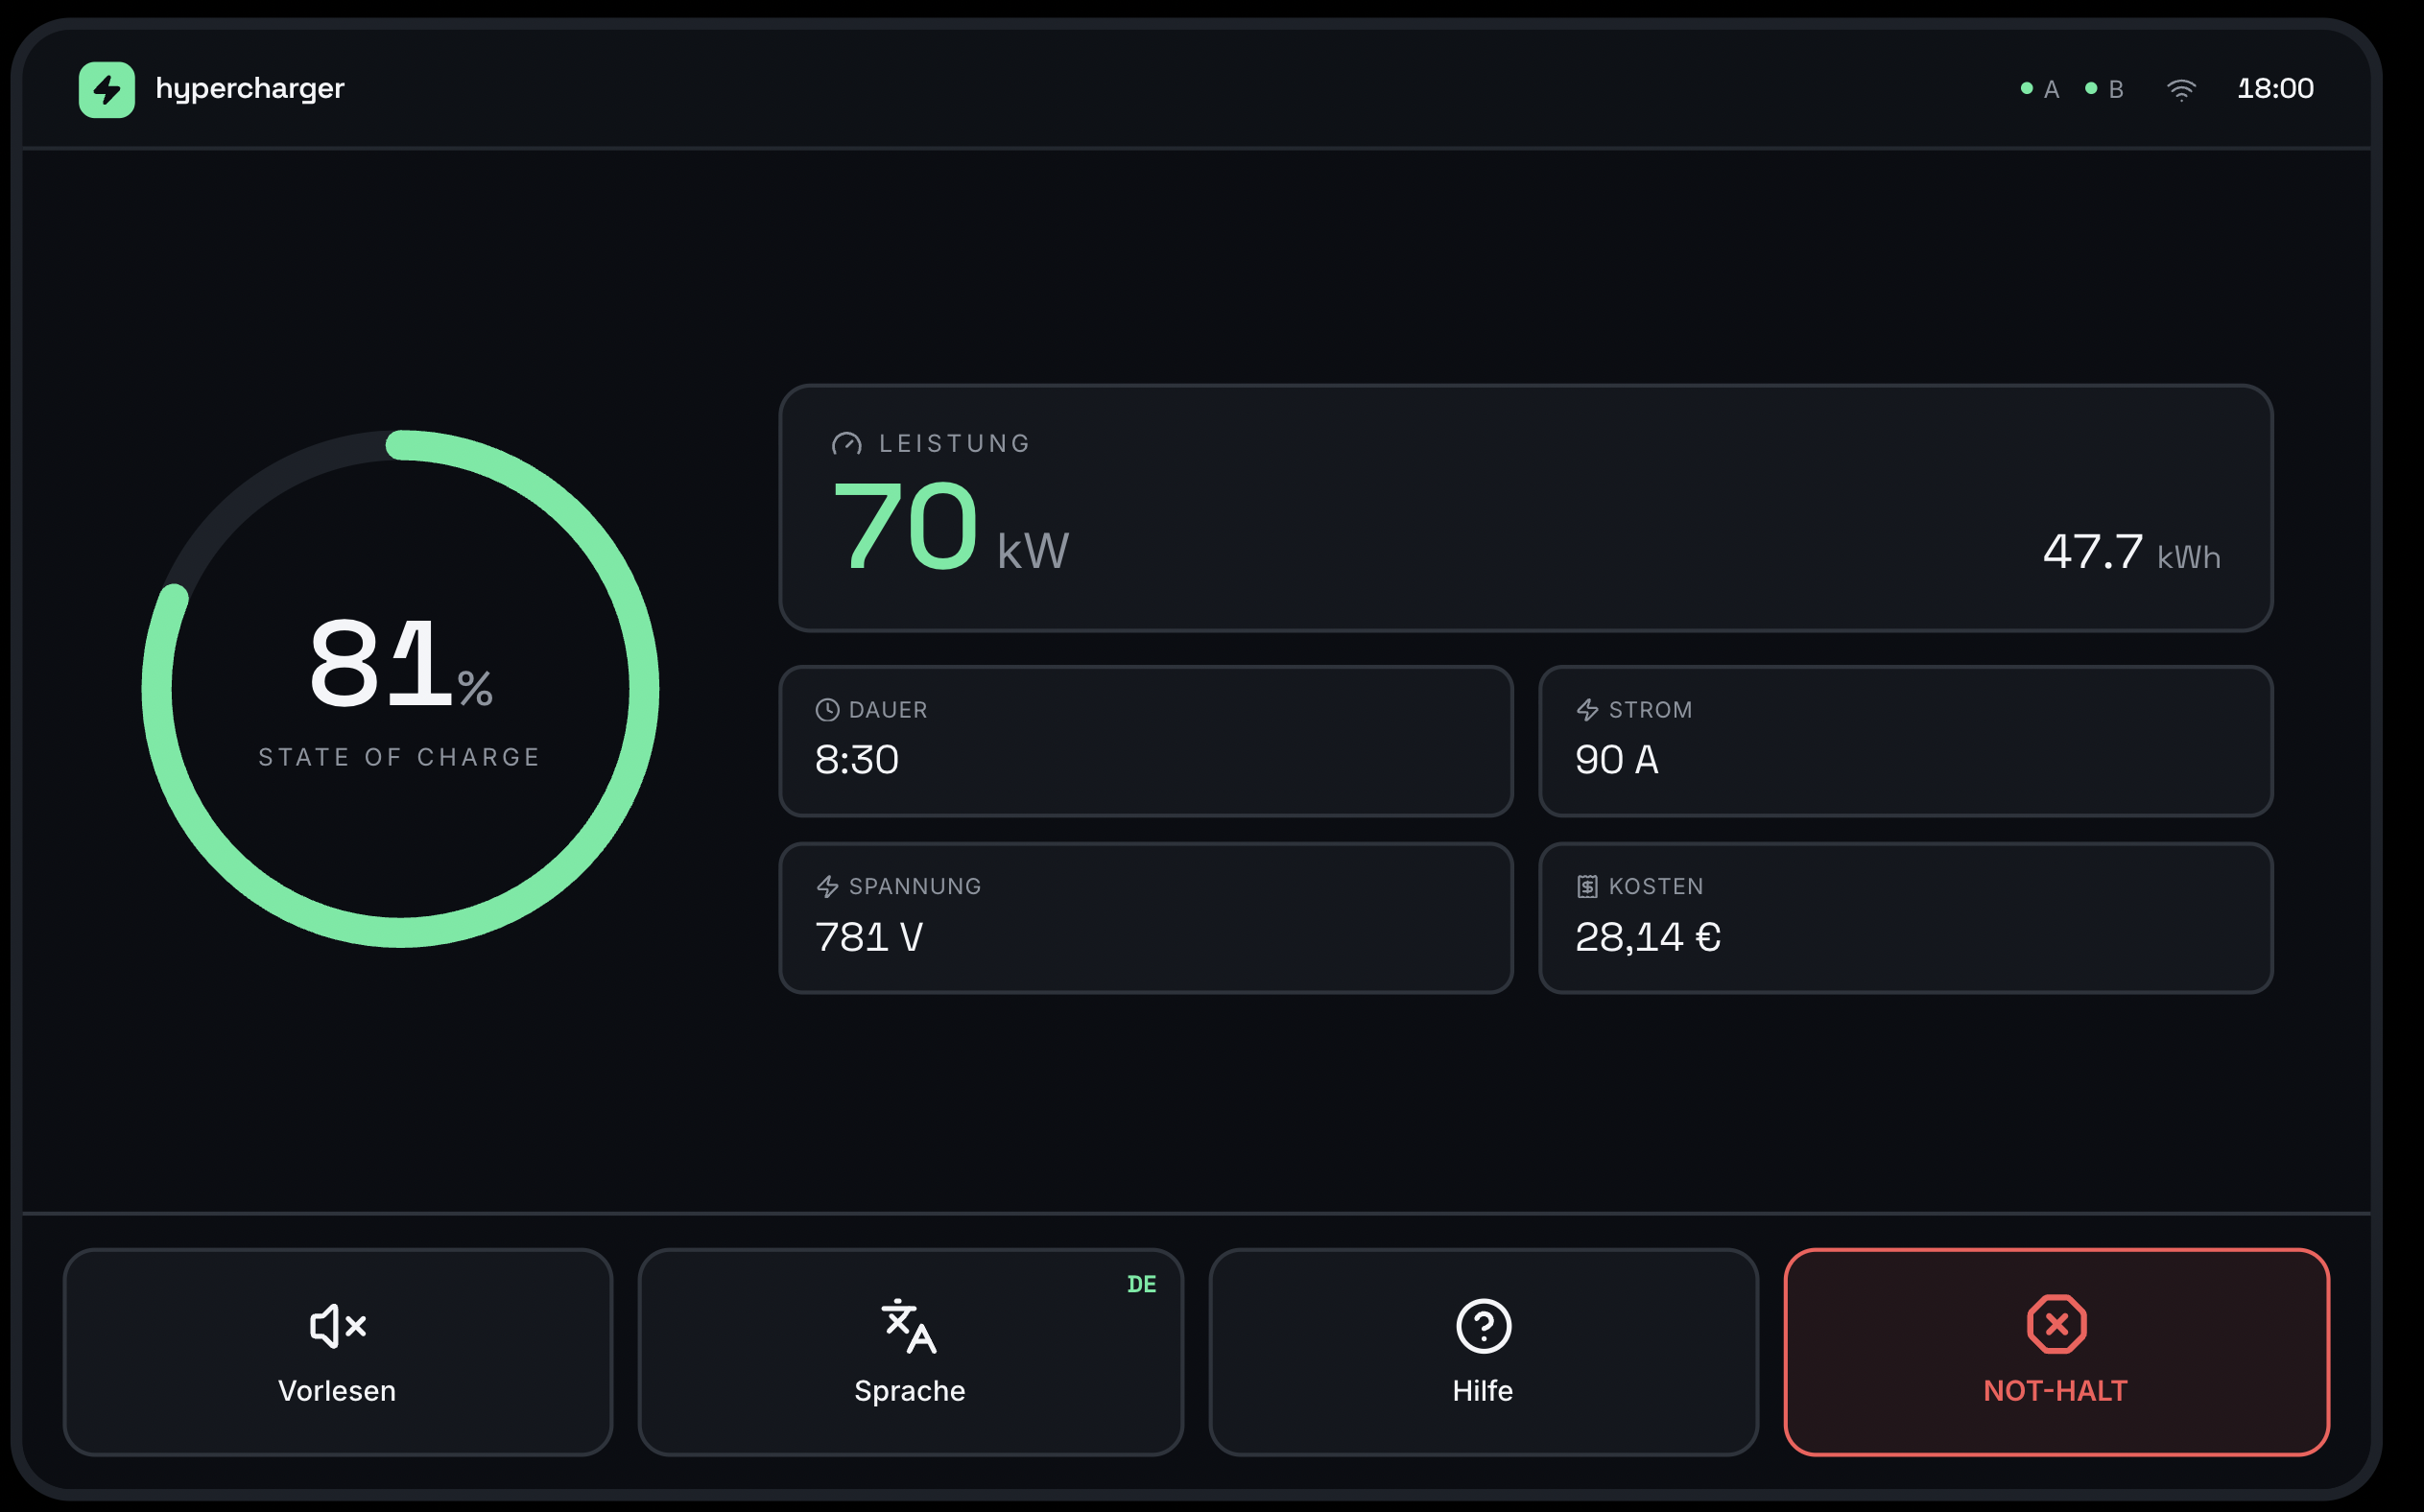
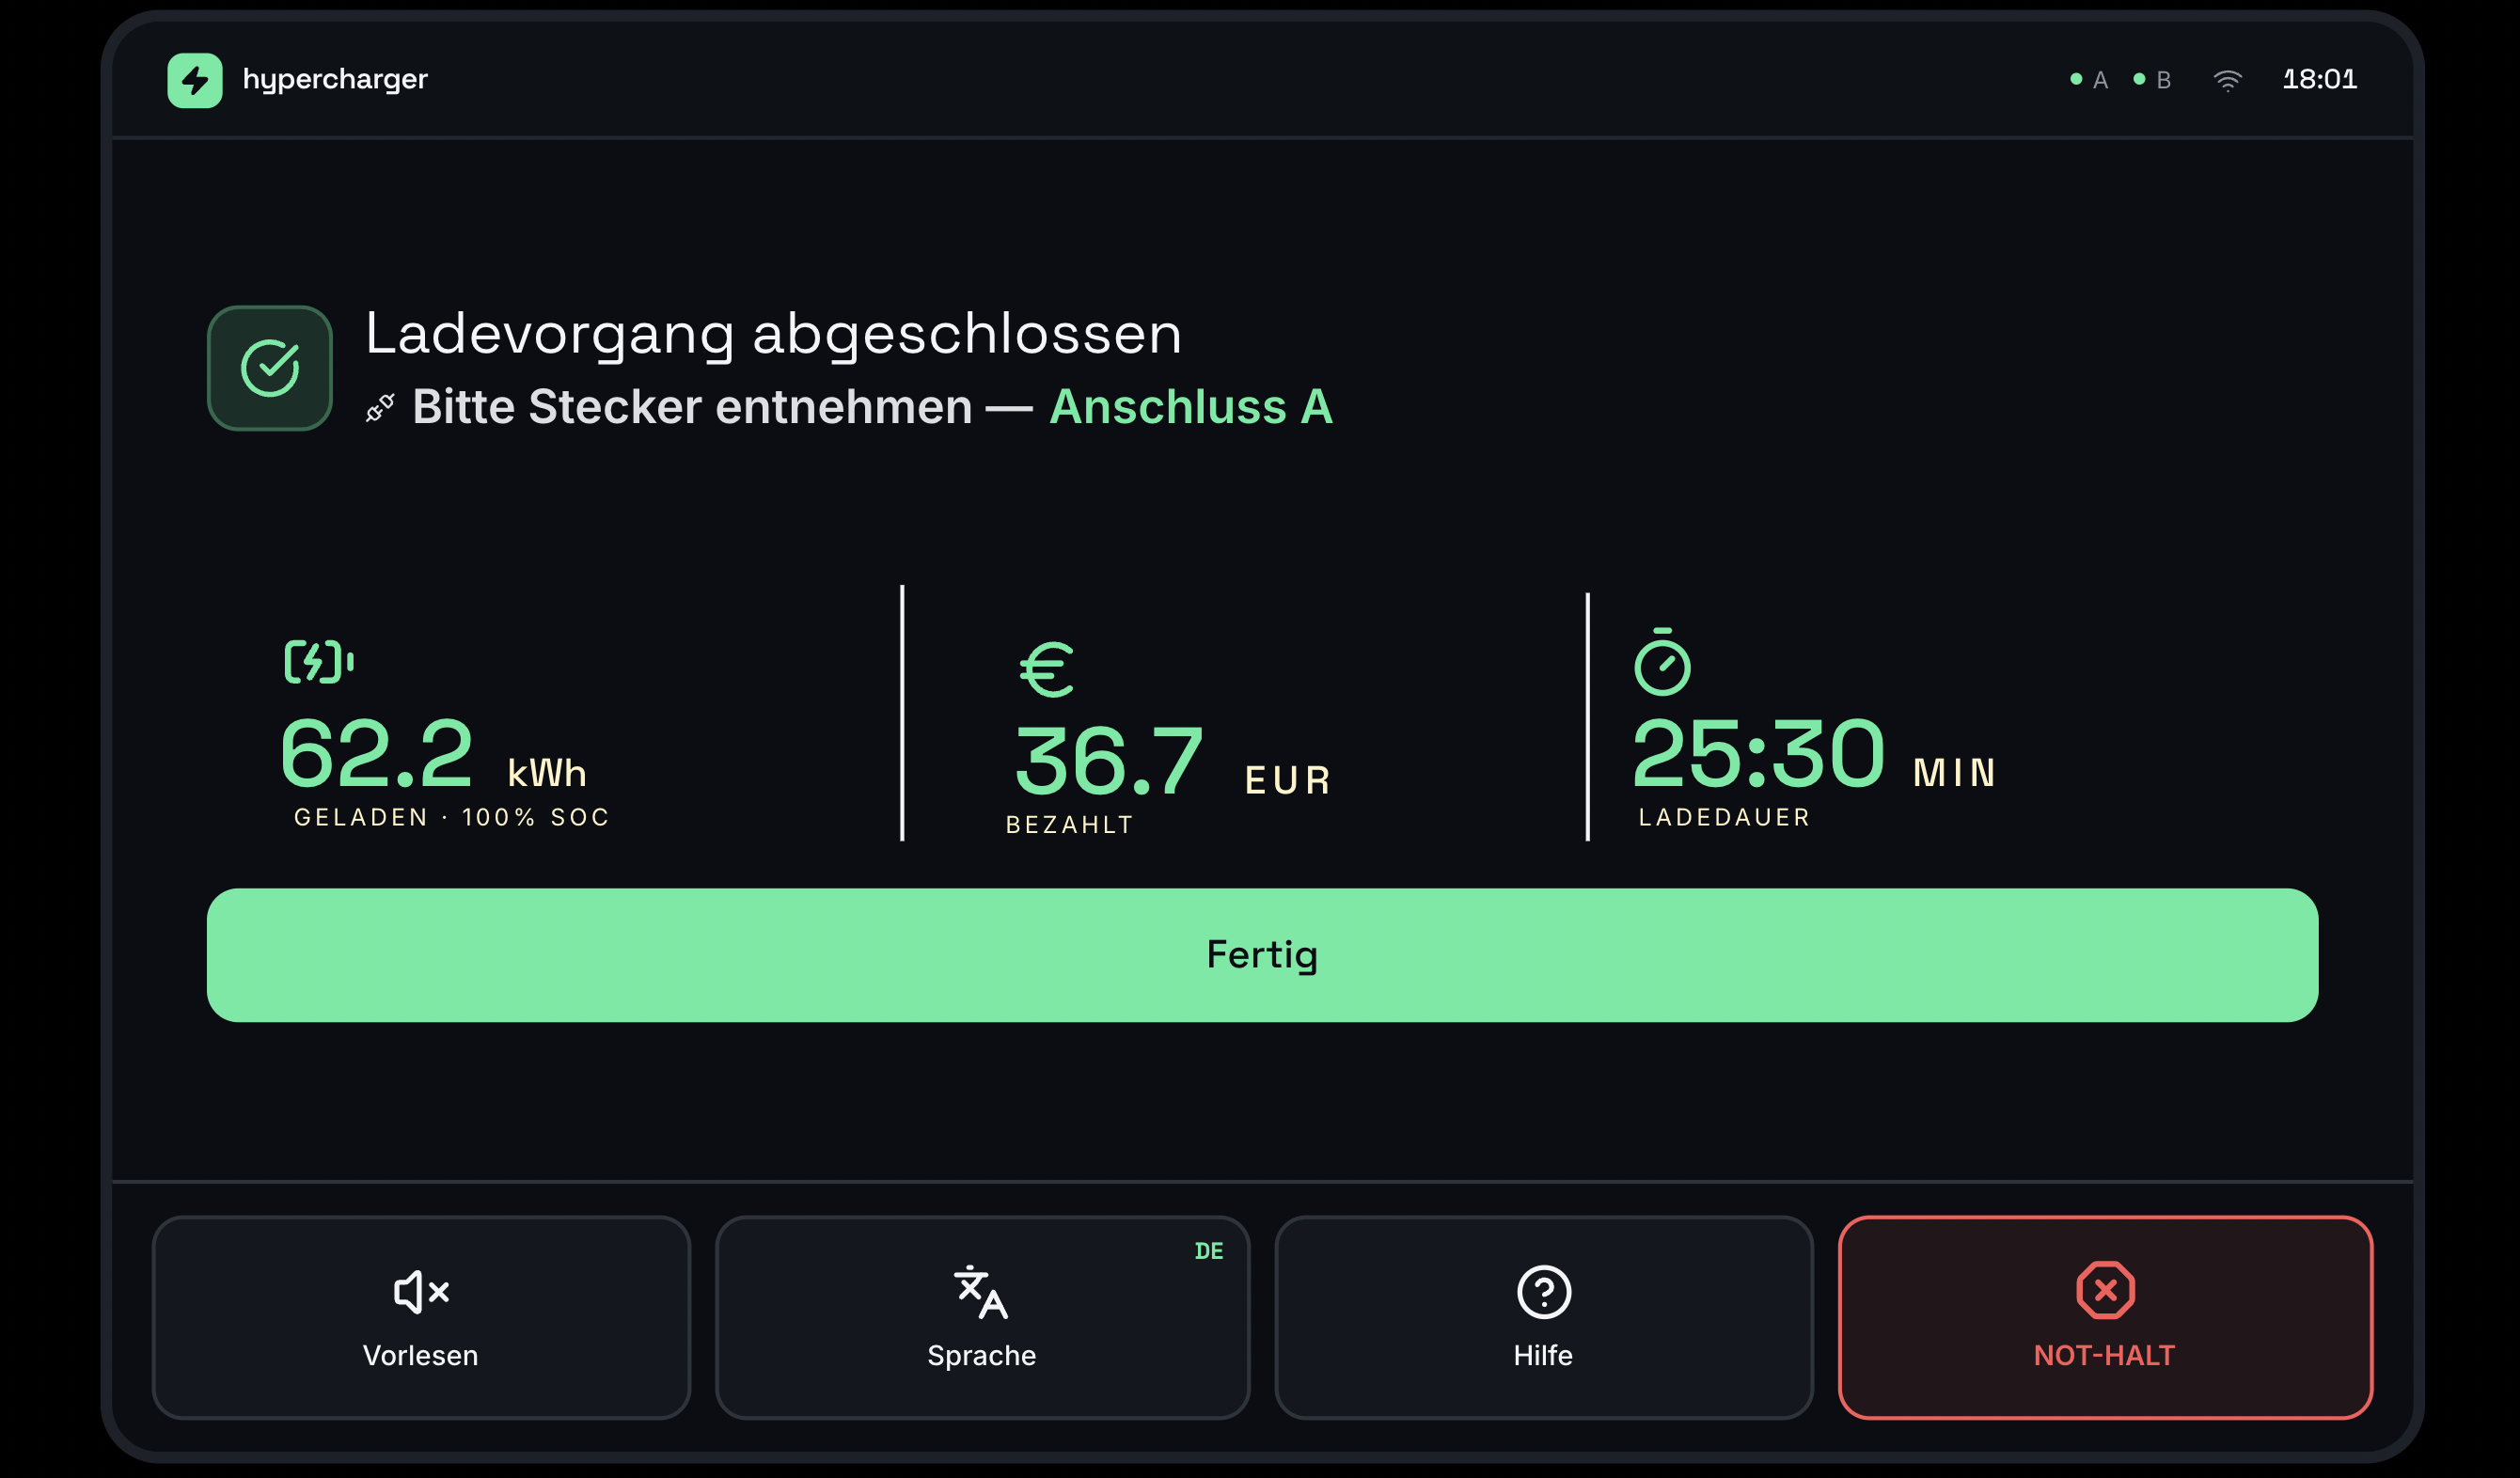
layout adjustments

Changed region(s): [[0.0, 0.0, 0.9881, 0.9975], [0.8337, 0.3429, 0.9264, 0.374]]

diff --git a/index.html b/index.html
@@ -55,8 +55,6 @@
         <h1 data-en="I build web interfaces, with a focus on UI, frontend and UX.">
          Hey mein Name ist 
           <span class="honey">  Florian!</span>
-         
-       
           Ich baue Web-Interfaces, mit Fokus auf Usability und UX.
         </h1>
        